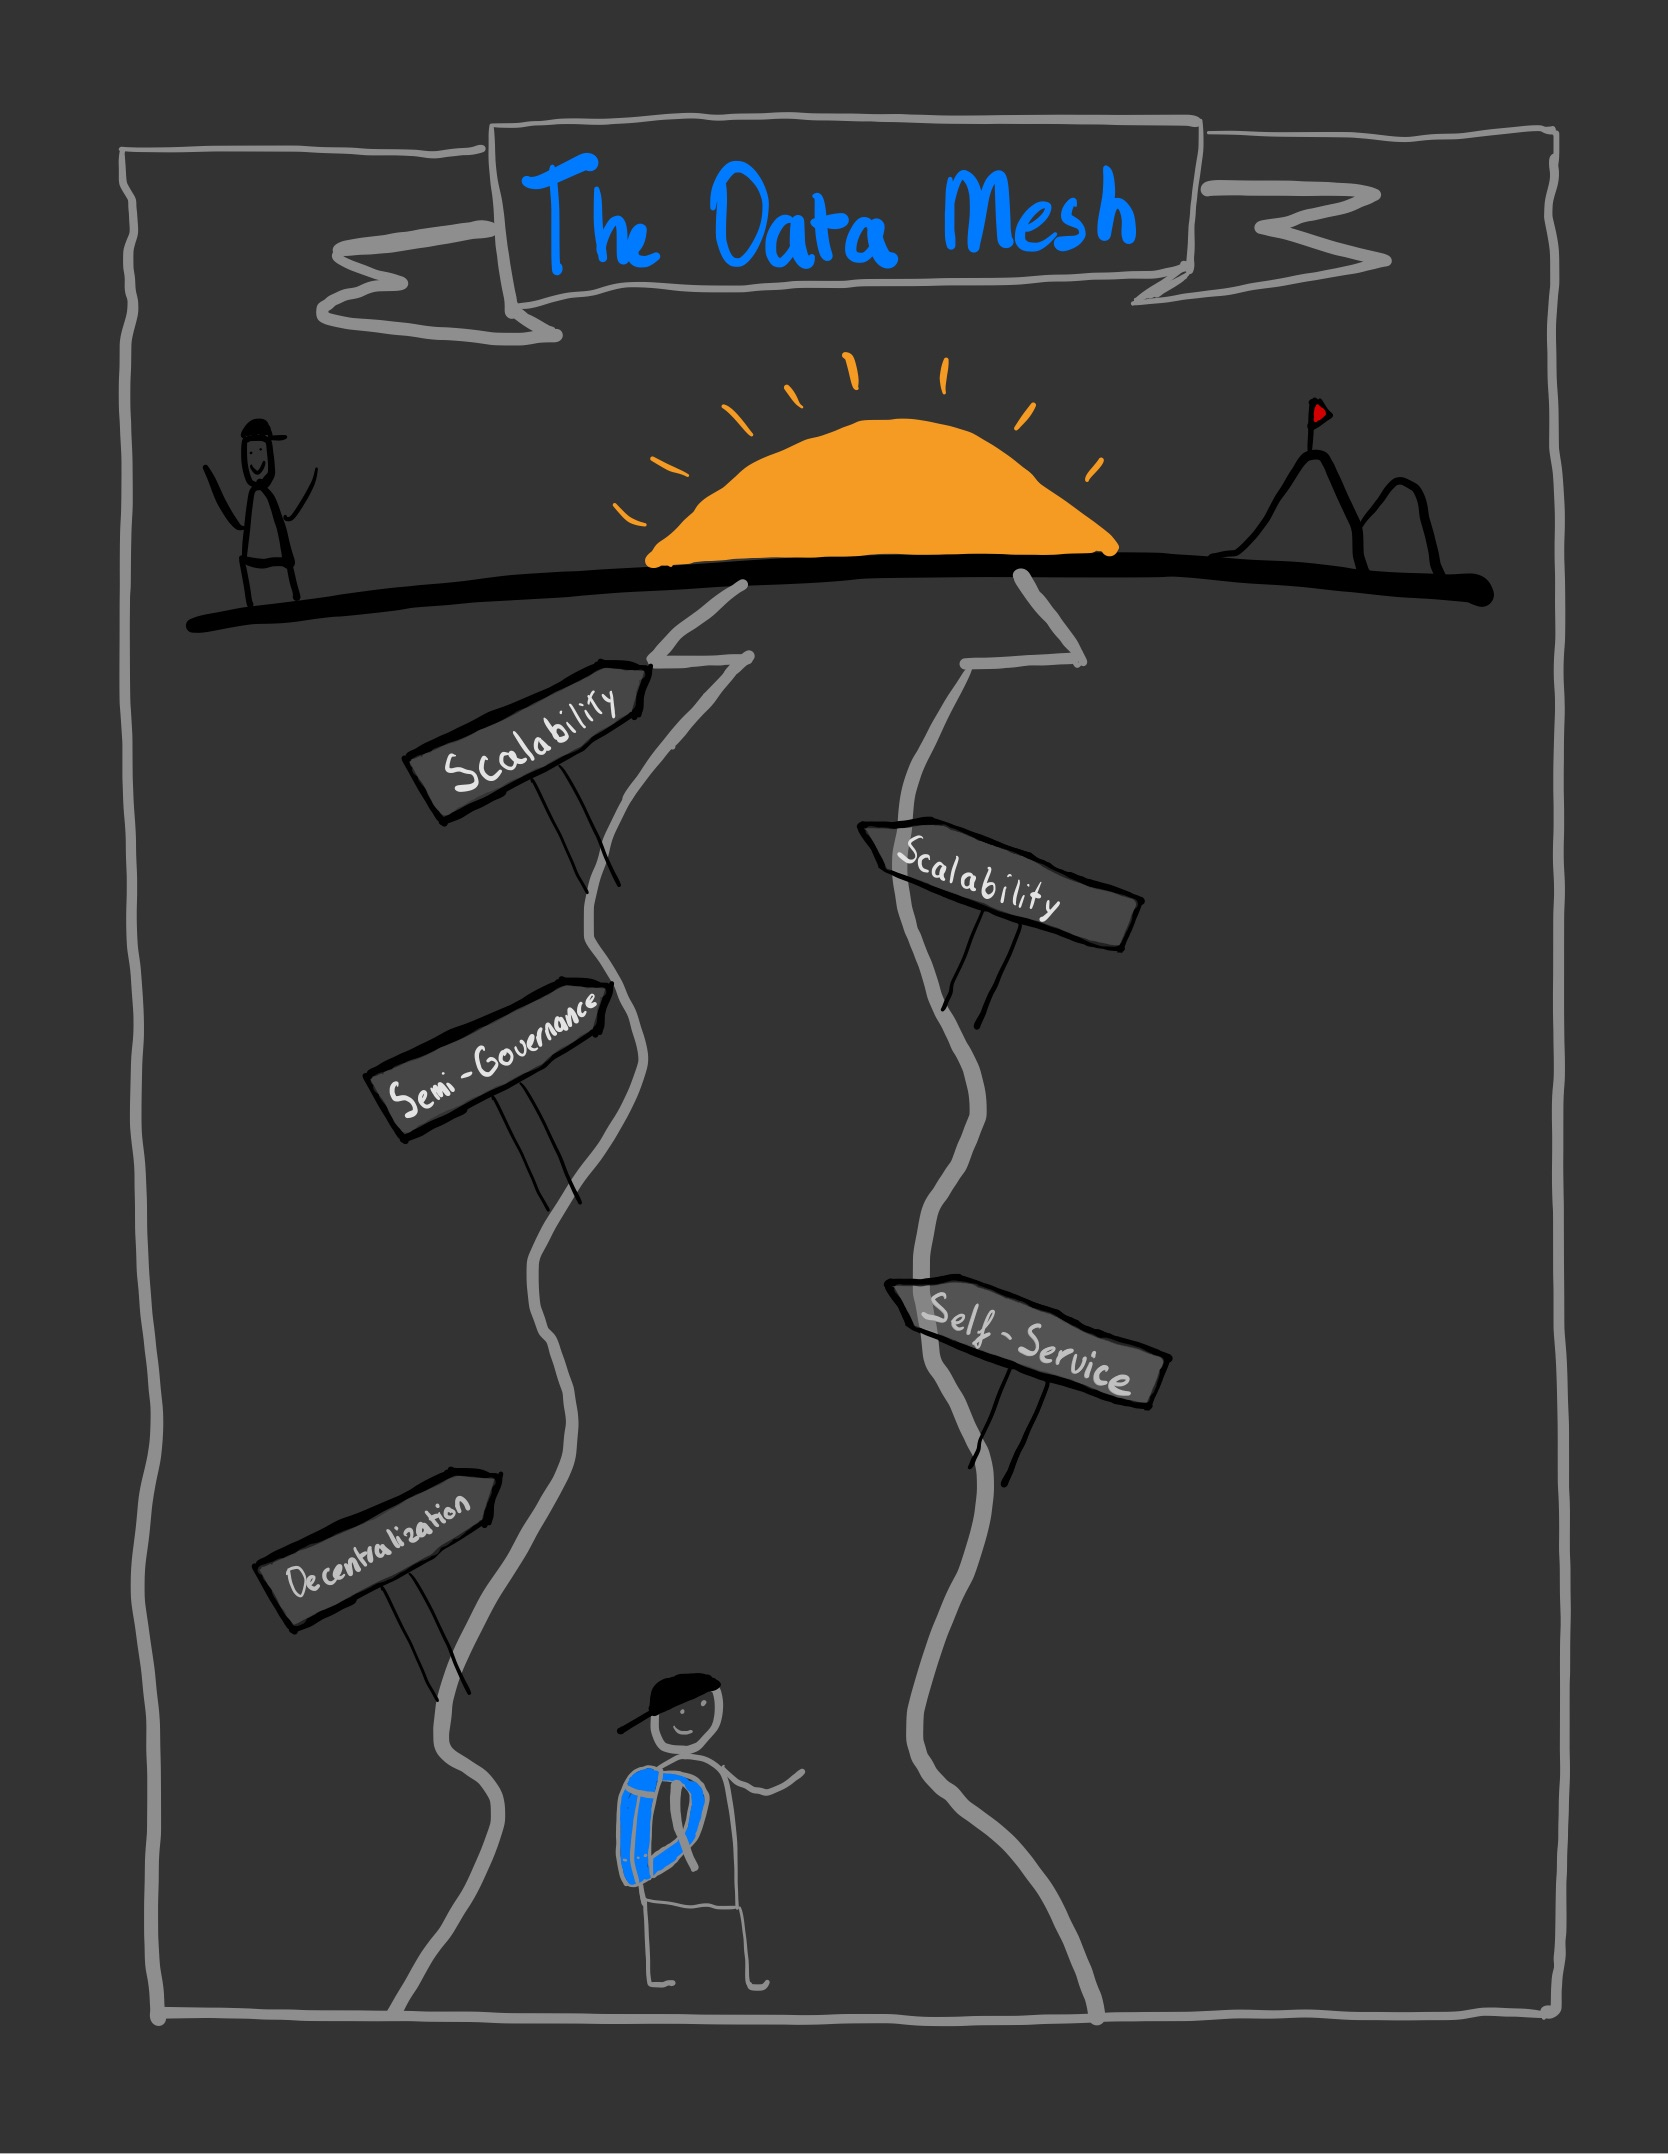
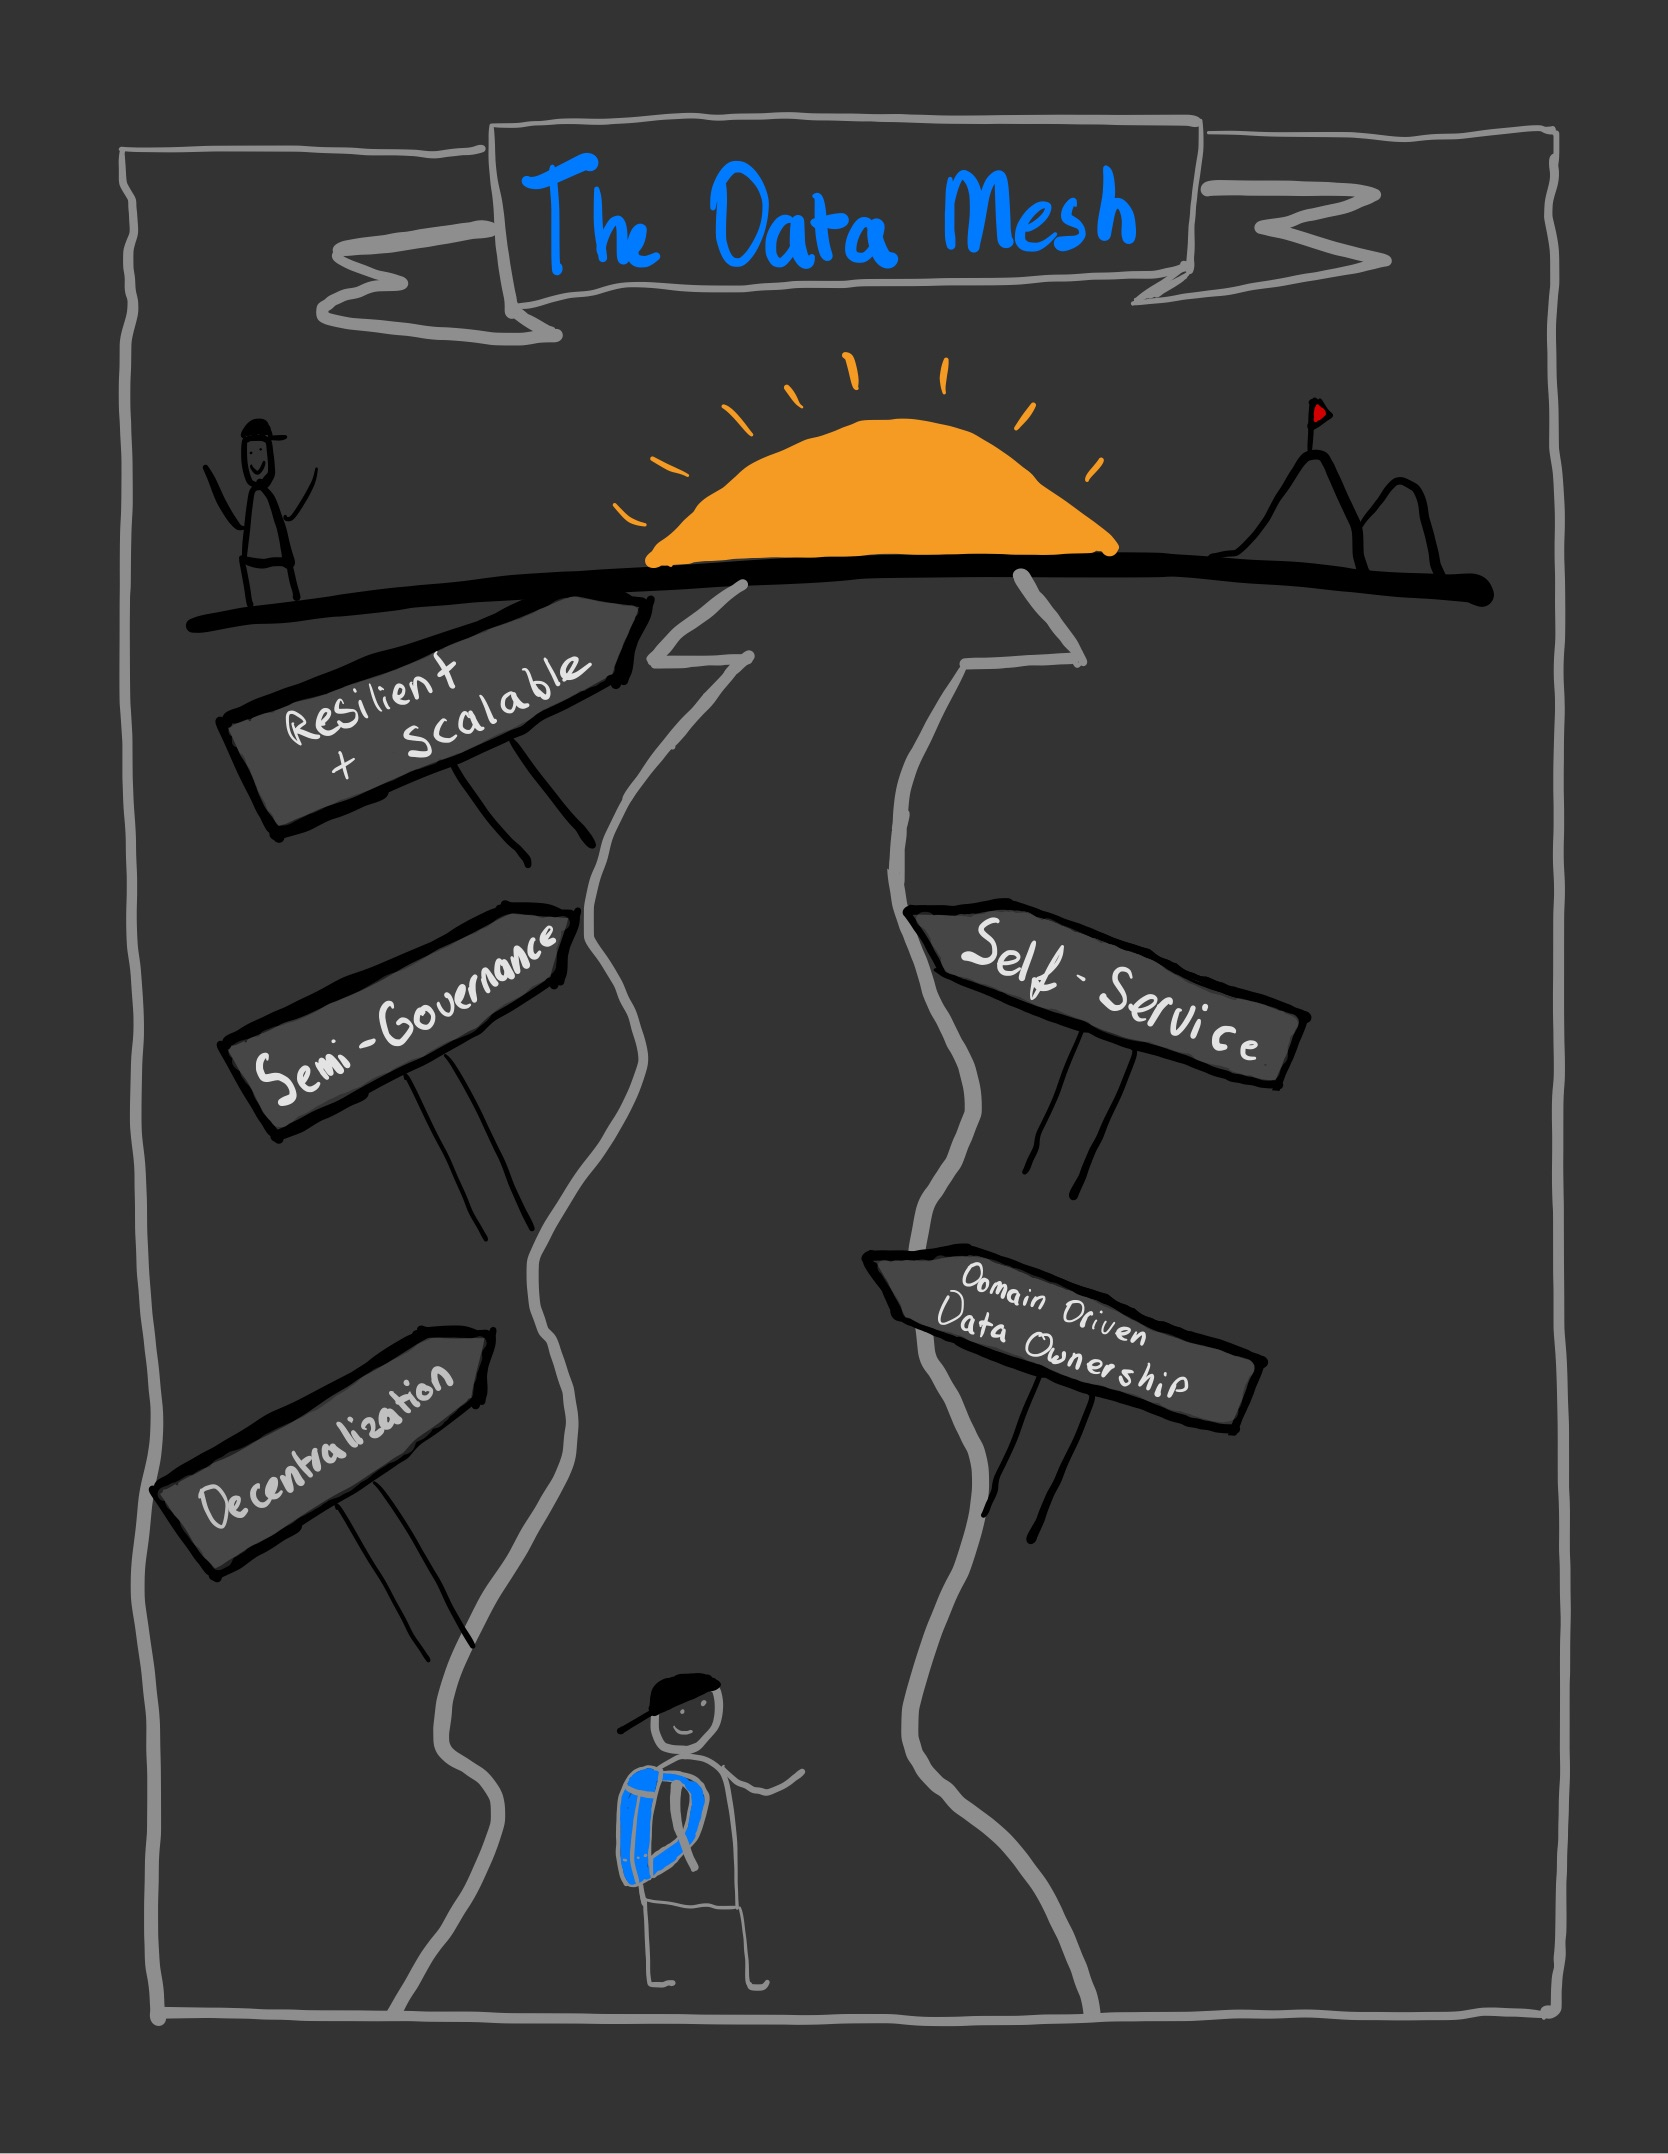
another one

diff --git a/slides/06-data-mesh-comparison.md b/slides/06-data-mesh-comparison.md
@@ -1,6 +1,31 @@
 ---
-layout: default
+layout: image-right
+image: images/centralized-vs-decentralized.jpg
 ---
 # Data mesh comparison
 
-<Footer/>
+<v-clicks>
+
+- Architecture: Decentralized vs. Centralized
+- Data Ownership: Domain-driven vs. Centralized team
+- Infrastructure: Self-service vs. Managed service
+- Governance: Semi-governed vs. Strictly governed
+- Scalability: High scalability vs. Limited scalability
+
+</v-clicks>
+
+<!---
+- Data mesh promotes a decentralized architecture, giving teams more autonomy, 
+  whereas monolithic architectures rely on a centralized data management approach, 
+  which can limit innovation and agility.
+- In a data mesh, data ownership is aligned with specific business domains, 
+  while in a traditional monolithic architecture, data ownership is often centralized, 
+  leading to inefficiencies and lack of domain expertise.
+- Data mesh enables teams to access, discover, and use data efficiently through self-service infrastructure, 
+  whereas in a monolithic architecture, teams often depend on centralized data teams for their data needs.
+- Data mesh establishes standards and guidelines for data governance while still providing autonomy to domain teams. 
+  In contrast, traditional monolithic architectures typically enforce a strictly governed approach, 
+  which can hinder flexibility.
+- Data mesh architectures are designed for resilience and scalability, while traditional monolithic architectures are 
+  often rigid and challenging to scale, especially as data volumes grow and business needs change.
+-->

diff --git a/slides/05-data-mesh-overview.md b/slides/05-data-mesh-overview.md
@@ -8,9 +8,17 @@ image: images/mesh-overview.jpg
 <v-clicks>
 
 - Decentralization
+- Domain-driven ownership
 - Self-service
 - Semi-governance
-- Resilience
-- Scalability
+- Resilient & Scalable
 
 </v-clicks>
+
+<!--
+- Data mesh moves away from centralized data management, enabling independent teams to own and maintain their data products, fostering innovation and agility.
+- Data ownership is based on specific business domains, allowing domain experts to manage and control their data products effectively.
+- Data mesh promotes self-service capabilities, enabling teams to access, discover, and use data more efficiently without relying on a centralized data team.
+- While providing autonomy to domain teams, data mesh also establishes standards and guidelines for data governance to ensure consistency and quality across the organization.
+- Data mesh architecture is designed to be resilient and scalable, easily adapting to growing data volumes and changing business needs.
+-->
